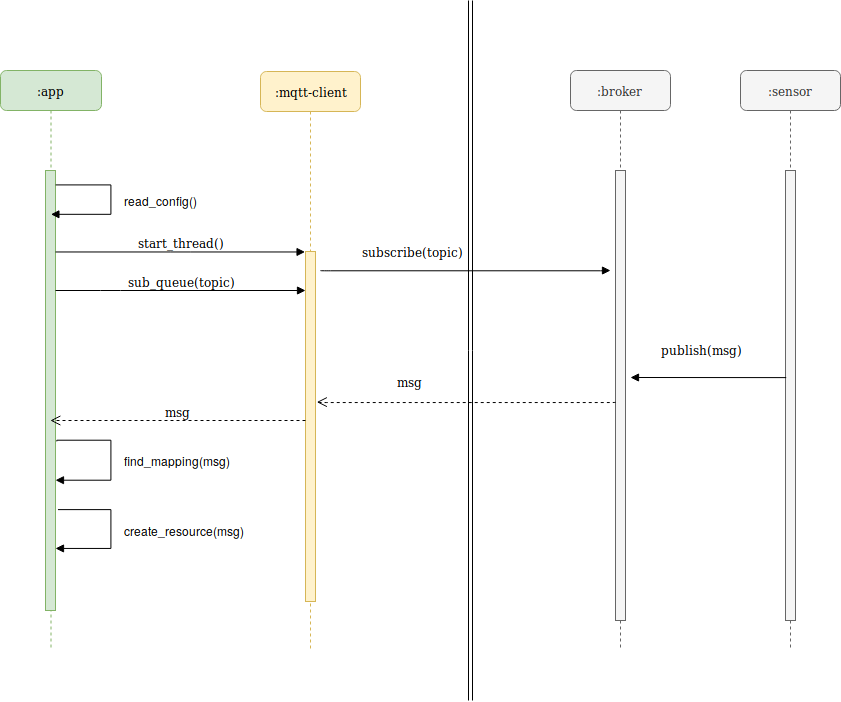
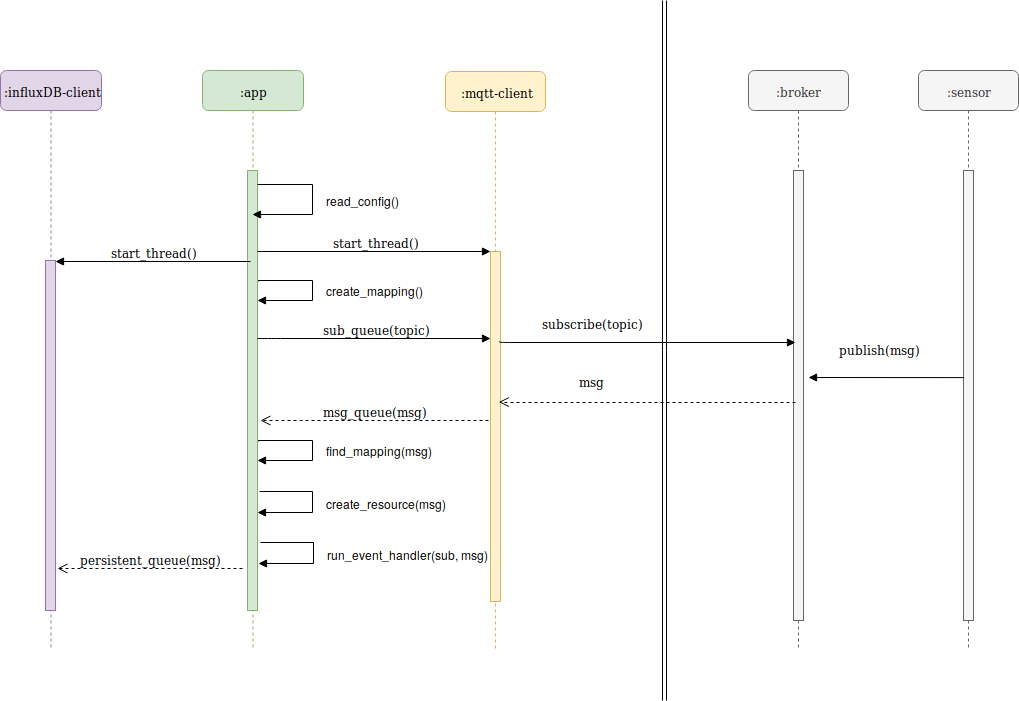
fixes

diff --git a/app/main.py b/app/main.py
@@ -471,14 +471,18 @@ class MappingDetailsApiV1(Resource):
 api.add_resource(Home, '/', endpoint='api_home')
 api.add_resource(ApiV1, '/api/v1', endpoint='api_v1')
 
-# Topics
+# list all topics
 api.add_resource(TopicMappingListApiV1, '/api/v1/topics', endpoint='api_topic_mapping_list')
+
+# Topics by uuid
 api.add_resource(TopicDetailsApiV1, '/api/v1/topic/details/<uuid:uuid>', endpoint='api_topic_details')
 api.add_resource(TopicValueApiV1, '/api/v1/topic/value/<uuid:uuid>', endpoint='api_topic_value')
+
+# Topics by name
 api.add_resource(MappingDetailsApiV1, '/api/v1/topic/details/<path:topic>', endpoint='api_mapping_details')
 api.add_resource(MappingValueApiV1, '/api/v1/topic/value/<path:topic>', endpoint='api_mapping_value')
 
-# Subscription
+# Subscriptions
 api.add_resource(SubscriptionsListApiV1, '/api/v1/subscriptions', endpoint='api_subscription_list')
 api.add_resource(SubscriptionDetailsApiV1, '/api/v1/subscription/details/<uuid:uuid>',
                  endpoint='api_subscription_details')

diff --git a/docs/overview/index.rst b/docs/overview/index.rst
@@ -8,17 +8,45 @@
 Overview
 =========
 
-This section contains Information about implementation Details and the basic System-Architecture
+This section contains information about the System-Architecture and the basic Workflow.
+
+System-Architecture
+===================
 
 
 .. figure:: diagramm.png
-   :scale: 80 %
-   :alt: Docker
+   :scale: 90 %
 
 
-TODO: Describe Workflow, Threads etc.
+The Main Entry-Point starts an Flask Web Application and one thread for the MQTT-Client and another for InfluxDB-Client.
+To serve the Web-Application there also starts an Gunicorn Worker who acts as Web Service Gateway Interface (WSGI).
+
+For the communication between these thread there are several Queue used:
+
+- sub_queue => To subscribe Topics
+- msg_queue => For all incoming messages
+- persistent_queue =>  For influxDB persistent manager
+- pub_queue =>  For all messages to publish
+
+
+
+
+Workflow
+=========
 
 
 .. figure:: uml_sequenz_diagram.png
    :scale: 70 %
-   :alt: Docker
+
+
+First the Main-Thread read all config files and start the different Client-threads. (:ref:`app-config-file-label`)
+
+After that it creates the Mapping Resources from kind "MQTTSubscriptionV1" and put all topics that should be subscribe in the sub_queue. (:ref:`pre-mapping-dir-label`)
+
+The MQTT Client reads this queue and subscribe these Topics from the Broker.
+
+If some Sensor-Client Publish a Message that match one of these Subscriptions, then the message will be forwarded to the Main-Thread by the msg_queue.
+
+Then the Main-Thread search for a matching Resource and than update the corresponding value. If there is no resource than its create a new once.
+
+In the last step the Main-Thread execute all defined event_handlers for this Subscription.

diff --git a/README.rst b/README.rst
@@ -16,7 +16,7 @@ For the full technical documentation visit: https://kungalex.github.io/rest-mqtt
 
 Getting-Started
 ===============
-This section contains a Quick-Start Example that cover basic use cases of rest-mqtt-proxy.
+This section contains a Quick-Start example that cover basic use cases of rest-mqtt-proxy.
 You can use prebuild Docker image or build from source.
 
 
@@ -24,7 +24,7 @@ Requirements
 ------------
 
 
-Please make sure you have Docker installed.
+Please make sure you have Docker installed on your machine.
 
 .. code-block:: bash
 
@@ -73,9 +73,9 @@ Docker
 -------
 
 
-All configs can be made by mount local config files to the Docker-Container.
+All configs can be made by mount local config files into the Docker-Container.
 
-In *APP_CONFIG_FILE* are base config for the MQTT-Broker Connection and optional the InfluxDB config used for persistent Manager.
+In *APP_CONFIG_FILE* are base config for the MQTT-Broker connection and optional the InfluxDB config used as default persistent Manager.
 
 To configure what topics will be Subscribe by the Client-Thread use yaml files in *PRE_MAPPING_DIR*.
 
@@ -96,7 +96,7 @@ For an full config example please see :ref:`my-reference-label`.
 Docker-Compose
 --------------
 
-For an Base integration test there is docker-compose script that starts all Services like Mosquitto and InfluxDB as Docker on your localhost.
+For an base integration test there is a docker-compose script that starts all Services like Mosquitto and InfluxDB as Docker on your localhost.
 
 
 .. code-block:: bash

diff --git a/docs/config/index.rst b/docs/config/index.rst
@@ -10,12 +10,16 @@
 Config
 =========
 
-This section contains details about configuration and there default values.
+This section contains details about configuration and their default values.
+There are two necessary configs parts. The first configfile is for the basic connection Setup and the other for the Topic subscription.
 
-There are to different config possibilities.
+
+.. _app-config-file-label:
 
 APP_CONFIG_FILE
 ===============
+
+
 
 For the basic MQTT-Broker Config use the this example and set env APP_CONFIG_FILE
 to file path.
@@ -40,13 +44,13 @@ Filename: config.ini
 
 
 
-
+.. _pre-mapping-dir-label:
 
 PRE_MAPPING_DIR
 ===============
-
-To Subsrcibe on Topics you can use the follow yaml syntax to define some resources from kind MQTTSubscriptionV1
 All files placed in the *PRE_MAPPING_DIR* will used to create resources.
+To Subscribe some Topics you can use the follow yaml syntax to define some resources from kind MQTTSubscriptionV1.
+
 
 Filename: example.yaml
 
@@ -58,7 +62,7 @@ Filename: example.yaml
     description: 'Test Topics'
     event_handlers:
         default_manager: default_output_handler
-        persistent_manager: push_influxdb_handler
+        persistent_manager: none
 
     ---
 
@@ -67,7 +71,7 @@ Filename: example.yaml
     description: 'Test Topics'
     event_handlers:
         default_manager: default_output_handler
-        persistent_manager: push_influxdb_handler
+        persistent_manager: none
 
 
 

diff --git a/docs/source/index.rst b/docs/source/index.rst
@@ -9,7 +9,7 @@
 Source
 ======
 
-This section contains a description of the important class Implementations.
+This section contains descriptions about implementation details.
 
 
 
@@ -21,7 +21,7 @@ This section contains a description of the important class Implementations.
     :members: TopicMappingV1, MQTTSubscriptionV1
 
 .. automodule:: main
-    :members: create_app, create_mqtt_client, create_persistent_client
+    :members: Home, ApiV1, TopicMappingListApiV1, SubscriptionsListApiV1, SubscriptionDetailsApiV1, TopicValueApiV1, TopicDetailsApiV1, MappingValueApiV1, MappingDetailsApiV1, create_app, start_mqtt_client, start_persistent_client, create_mapping, run_msq_queue, run_event_handlers
 
 
 .. automodule:: callbacks

diff --git a/docs/api-documentation/index.rst b/docs/api-documentation/index.rst
@@ -9,8 +9,7 @@
 API Documentation
 =================
 
-This section contains the API-Dokumentation and basic use cases of
-rest-mqtt-proxy.
+This section contains the full API-Documentation.
 
 
 REST Resource: API
